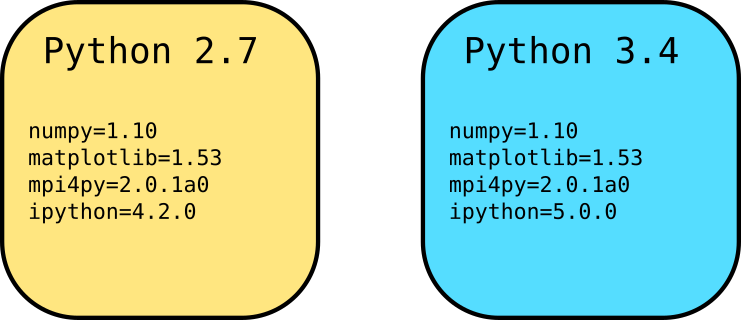
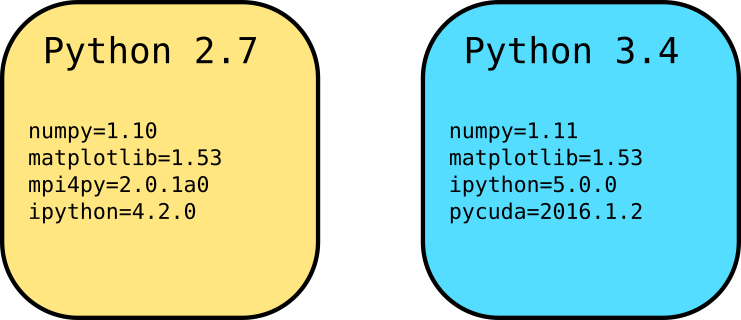
Add source image and change package versions in figure

Changed region(s): [[0.5897, 0.5312, 0.8691, 0.7188], [0.7449, 0.375, 0.776, 0.4375]]

diff --git a/README.md b/README.md
@@ -27,7 +27,10 @@ As an example,
 consider the scenario of a user working on two Python projects,
 each project has different requirements:
 
-<img src="img/python-envs.png" width=200px">
+<img src="img/python-envs.png" width=600px">
+
+The first project requires
+Python 2.7 and a set of Python packages such as `numpy`
 
 This article will aim to explain
 
